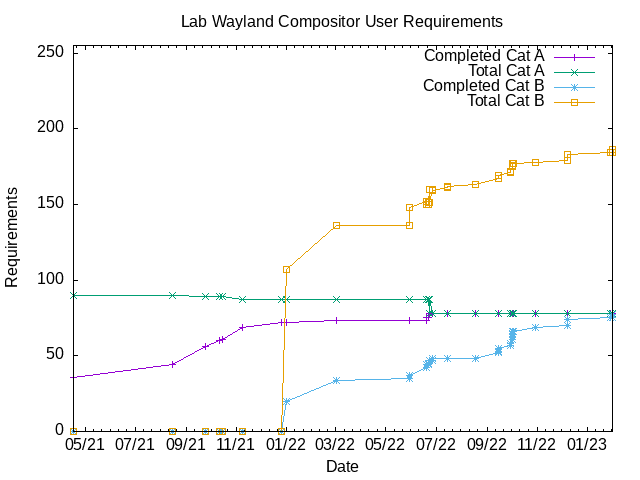
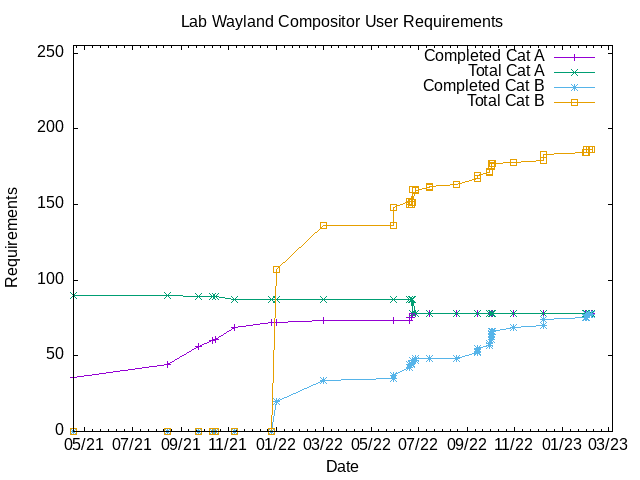
Add `FocusOutput` action

diff --git a/all-cat-A-and-B-items.md b/all-cat-A-and-B-items.md
@@ -75,10 +75,10 @@ This file has been auto-generated based on README.md. Do not edit it manually
 |  A  | complete | 6.9.2     | menu textures                   | `menu.items.active.bg`                                  |
 |  A  | complete | 6.10.1    | osd textures                    | `osd.bg`                                                | we only set the color
 |  A  | complete | 6.11.1    | osd colors                      | `osd.label.text.color`                                  |
-|  A  | complete | 7.1.1     | menu                            | `id`                                                    |
-|  A  | complete | 7.2.1     | menu item                       | `label`                                                 |
-|  A  | complete | 7.2.3     | menu item                       | `action`                                                |
-|  A  | complete | 7.3.1     | menu separator                  | `<separator />`                                         | For separator line only
+|  A  | complete | 7.1.1     | menu syntax general             | `id`                                                    |
+|  A  | complete | 7.2.1     | menu syntax item                | `label`                                                 |
+|  A  | complete | 7.2.3     | menu syntax item                | `action`                                                |
+|  A  | complete | 7.3.1     | menu syntax separator           | `<separator />`                                         | For separator line only
 |  A  | complete | 8.1.1     | extra                           | Support rounded top window corners                      | rc.xml `<theme><cornerRadius>`
 |  B  | complete | 1.2.1     | wayland-protocol                | [presentation-time]                                     |
 |  B  | complete | 1.2.2     | wayland-protocol                | [viewporter]                                            |
@@ -171,6 +171,7 @@ This file has been auto-generated based on README.md. Do not edit it manually
 |  B  | complete | 4.16      | global action                   | `Debug`                                                 | EXTRA
 |  B  | complete | 4.17      | global action                   | `None`                                                  | EXTRA Removes other actions within mouse bindings
 |  B  | complete | 4.18      | global action                   | `Kill`                                                  | EXTRA Send SIGTERM
+|  B  | complete | 4.19      | global action                   | `FocusOutput`                                           | EXTRA
 |  B  |          | 5.3       | window action                   | `Lower`                                                 |
 |  B  |          | 5.4       | window action                   | `RaiseLower`                                            |
 |  B  |          | 5.5       | window action                   | `UnFocus`                                               |
@@ -193,7 +194,8 @@ This file has been auto-generated based on README.md. Do not edit it manually
 |  B  |          | 5.28      | window action                   | `GrowToFill`                                            |
 |  B  |          | 5.29      | window action                   | `ShrinkToEdge`                                          |
 |  B  | complete | 5.33      | window action                   | `ToggleAlwaysOnTop`                                     |
-|  B  | complete | 5.36      | window action                   | `SnapToRegion`                                          | EXTRA
+|  B  | complete | 5.36      | window action                   | `SnapToEdge`                                            | EXTRA
+|  B  | complete | 5.37      | window action                   | `SnapToRegion`                                          | EXTRA
 |  B  |          | 6.1.2     | geometry                        | `menu.border.width`                                     |
 |  B  | complete | 6.1.4     | geometry                        | `menu.separator.padding.width`                          |
 |  B  | complete | 6.1.5     | geometry                        | `menu.separator.padding.height`                         |
@@ -256,13 +258,12 @@ This file has been auto-generated based on README.md. Do not edit it manually
 |  B  |          | 6.11.3    | osd colors                      | `osd.unhilight.bg.color`                                | for desktop osd only
 |  B  | complete | 6.12.1    | text justification              | `window.label.text.justify`                             |
 |  B  |          | 6.12.2    | text justification              | `menu.title.text.justify`                               |
-|  B  |          | 7.1.2     | menu                            | `label`                                                 |
-|  B  |          | 7.1.4     | menu                            | `execute`                                               | aka pipe-menus
-|  B  |          | 7.3.2     | menu separator                  | `<separator label="" />`                                | For separator with text
+|  B  | complete | 8.3.1     | extra                           | Read menu.xbm if it exists                              | EXTRA
+|  B  |          | 7.1.2     | menu syntax general             | `label`                                                 |
+|  B  |          | 7.1.4     | menu syntax general             | `execute`                                               | aka pipe-menus
+|  B  |          | 7.3.2     | menu syntax separator           | `<separator label="" />`                                | For separator with text
 |  B  |          | 8.1.2     | extra                           | Support png buttons                                     |
-|  B  | complete | 8.1.3     | extra                           | `SnapToEdge` action                                     | Similar to 5.12 `GrowToEdge`
 |  B  | complete | 8.2.1     | extra                           | `<snapping>`                                            |
 |  B  | complete | 8.2.2     | extra                           | `<snapping><range>`                                     |
 |  B  | complete | 8.2.3     | extra                           | `<snapping><topMaximize>`                               |
-|  B  | complete | 8.3.1     | extra                           | Read menu.xbm if it exists                              |
 |  B  | complete | 9.1.1     | Regions                         | `<regions><region>`                                     |

diff --git a/incomplete-cat-B-items.md b/incomplete-cat-B-items.md
@@ -107,7 +107,7 @@ This file has been auto-generated based on README.md. Do not edit it manually
 |  B  |          | 6.11.2    | osd colors                      | `osd.hilight.bg.color`                                  | for desktop osd only
 |  B  |          | 6.11.3    | osd colors                      | `osd.unhilight.bg.color`                                | for desktop osd only
 |  B  |          | 6.12.2    | text justification              | `menu.title.text.justify`                               |
-|  B  |          | 7.1.2     | menu                            | `label`                                                 |
-|  B  |          | 7.1.4     | menu                            | `execute`                                               | aka pipe-menus
-|  B  |          | 7.3.2     | menu separator                  | `<separator label="" />`                                | For separator with text
+|  B  |          | 7.1.2     | menu syntax general             | `label`                                                 |
+|  B  |          | 7.1.4     | menu syntax general             | `execute`                                               | aka pipe-menus
+|  B  |          | 7.3.2     | menu syntax separator           | `<separator label="" />`                                | For separator with text
 |  B  |          | 8.1.2     | extra                           | Support png buttons                                     |

diff --git a/README.md b/README.md
@@ -423,6 +423,7 @@ It depends on what happens with:
 |  B  | complete | 4.16      | global action                   | `Debug`                                                 | EXTRA
 |  B  | complete | 4.17      | global action                   | `None`                                                  | EXTRA Removes other actions within mouse bindings
 |  B  | complete | 4.18      | global action                   | `Kill`                                                  | EXTRA Send SIGTERM
+|  B  | complete | 4.19      | global action                   | `FocusOutput`                                           | EXTRA
 
 ## 5 Window Actions
 

diff --git a/stats.md b/stats.md
@@ -3,6 +3,6 @@ This file has been auto-generated based on README.md. Do not edit it manually
 # Requirements Breakdown
 
 - Cat A:  78 / 78 complete
-- Cat B:  77 / 186 complete
+- Cat B:  78 / 187 complete
 - Cat C:  0 / 59 complete
-- TOTAL:  155 / 323 complete
+- TOTAL:  156 / 324 complete
